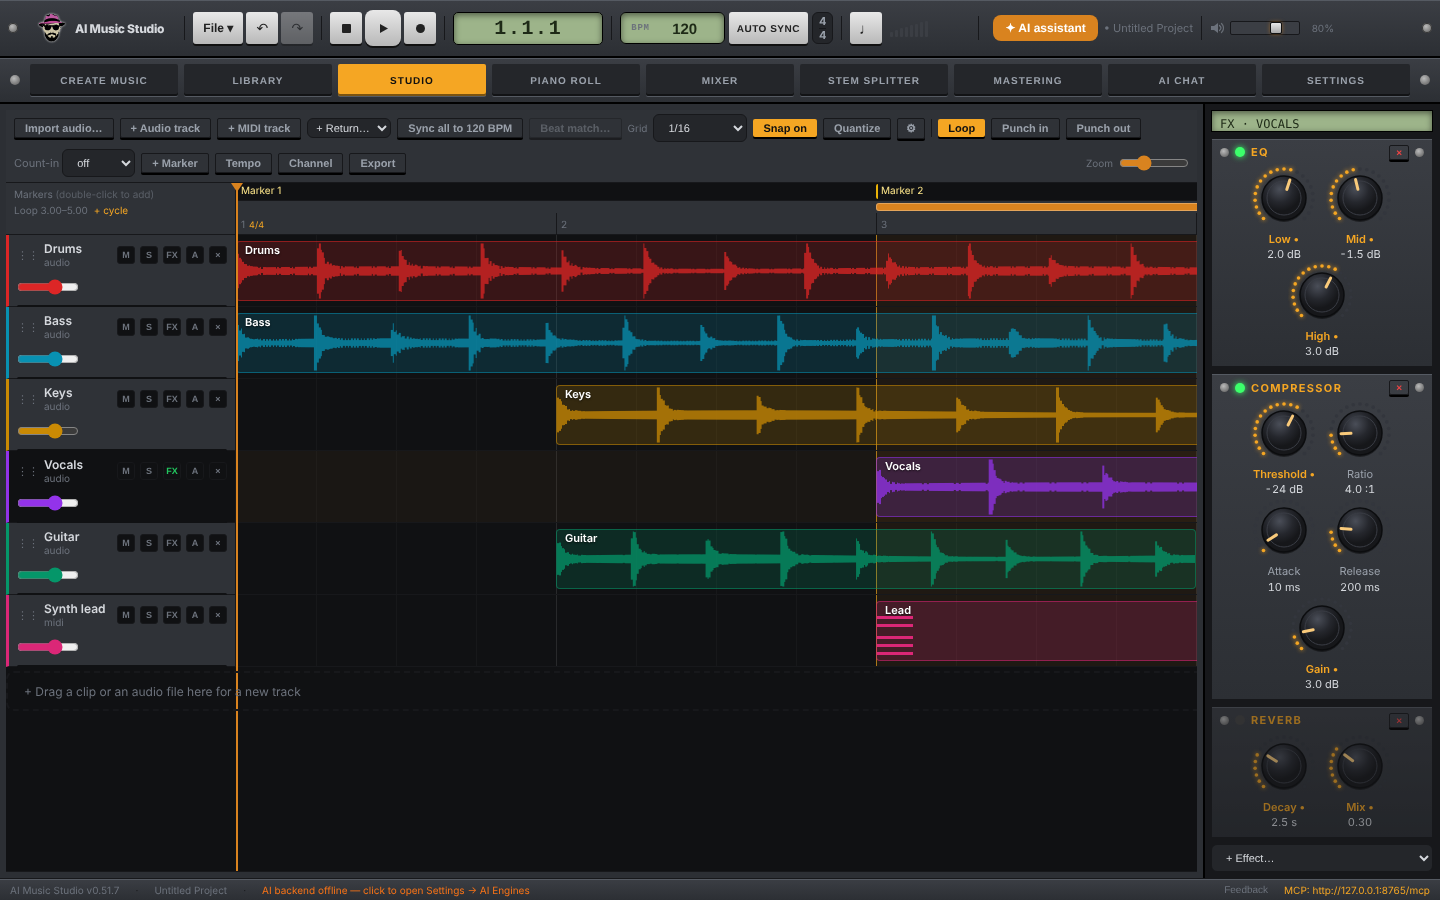
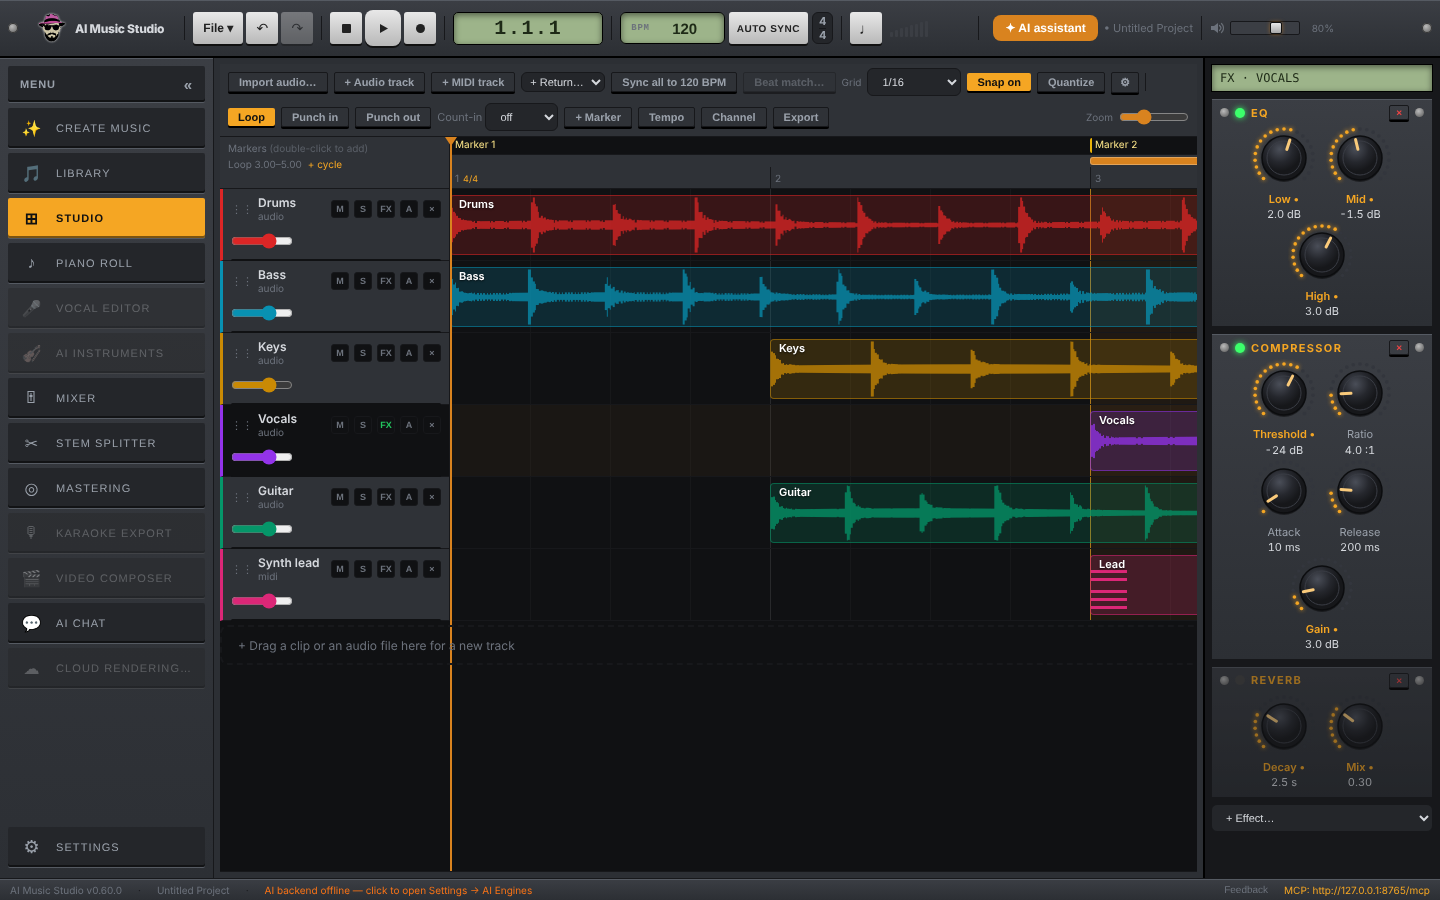
0.60.1: Hardware rack menu back at the side; effect rack only in Studio, Piano Roll and Mixer
Claude-Session: https://claude.ai/code/session_013zCgTr6dt9d3xsck6W1V2X

diff --git a/apps/desktop/src/renderer/src/styles/globals.css b/apps/desktop/src/renderer/src/styles/globals.css
@@ -472,20 +472,10 @@ input:focus, select:focus, textarea:focus { border-color: var(--accent); }
 [data-theme="rack"] .btn-primary { color: #111; background: #f5a623; }
 [data-theme="rack"] .panel { border-radius: 2px; background: linear-gradient(#34373d, #2a2d32); }
 
-/* Hardware rack: the menu as a row of rack keys under the top bar, the effect rack at the right, a big LCD */
-[data-theme="rack"] .app-body { display: grid; grid-template-columns: minmax(0, 1fr) auto auto; grid-template-rows: 46px minmax(0, 1fr); }
-[data-theme="rack"] .app-body > .app-nav-bar { grid-column: 1 / -1; grid-row: 1; padding: 6px 30px !important; gap: 6px !important; border-right: none !important; border-bottom: 2px solid #000; position: relative; }
-[data-theme="rack"] .app-body > .app-nav-bar::before, [data-theme="rack"] .app-body > .app-nav-bar::after {
-  content: ''; position: absolute; top: 50%; margin-top: -5px; width: 10px; height: 10px; border-radius: 50%;
-  background: radial-gradient(circle at 40% 35%, #bbb, #555);
-}
-[data-theme="rack"] .app-body > .app-nav-bar::before { left: 10px; }
-[data-theme="rack"] .app-body > .app-nav-bar::after { right: 10px; }
-[data-theme="rack"] .app-nav-bar button { background: #24262a !important; color: #9aa1ab !important; box-shadow: inset 0 -2px 0 rgba(0,0,0,0.5), 0 1px 0 #555a62 !important; font-weight: 700 !important; font-size: 10px !important; }
-[data-theme="rack"] .app-nav-bar button[style*="var(--accent)"] { background: #f5a623 !important; color: #111 !important; }
-[data-theme="rack"] .app-body > .app-main { grid-column: 1; grid-row: 2; min-height: 0; border: 6px solid #2c2f34; box-shadow: inset 0 0 0 1px #000; }
-[data-theme="rack"] .app-body > .rack-panel { grid-column: 2; grid-row: 2; min-height: 0; }
-[data-theme="rack"] .app-body > .ai-chat-sidebar { grid-column: 3; grid-row: 2; min-height: 0; }
+/* Hardware rack: the menu at the side as rack keys, the effect rack at the right, a big LCD */
+[data-theme="rack"] .app-nav button { background: #24262a !important; color: #9aa1ab !important; box-shadow: inset 0 -2px 0 rgba(0,0,0,0.5), 0 1px 0 #555a62 !important; margin-bottom: 3px; }
+[data-theme="rack"] .app-nav button[style*="var(--accent)"] { background: #f5a623 !important; color: #111 !important; }
+[data-theme="rack"] .app-main { border: 6px solid #2c2f34; box-shadow: inset 0 0 0 1px #000; }
 [data-theme="rack"] .app-topbar { height: 58px; }
 [data-theme="rack"] .tb-position { min-width: 150px; font-size: 20px !important; text-align: center; padding: 4px 14px !important; letter-spacing: 0.08em; }
 [data-theme="rack"] .tb-bpm { padding: 4px 10px !important; }

diff --git a/apps/desktop/src/renderer/src/components/layout/Sidebar.tsx b/apps/desktop/src/renderer/src/components/layout/Sidebar.tsx
@@ -36,8 +36,8 @@ const EXPANDED = 214
 export function Sidebar(): React.ReactElement {
   const { t } = useTranslation()
   const { activeView, setActiveView, closeSettings, sidebarOpen: open, toggleSidebar, theme } = useUIStore()
-  // the Swiss layout has the menu as a bar along the bottom, the Hardware rack as a row of rack keys at the top
-  const bar = theme === 'swiss' || theme === 'rack'
+  // the Swiss layout has the menu as a bar along the bottom (the Hardware rack keeps it at the side: more room)
+  const bar = theme === 'swiss'
   const sidebarOpen = open || bar
 
   const button = (view: View, icon: string, text: string, size = 16) => {

diff --git a/apps/desktop/src/renderer/src/App.tsx b/apps/desktop/src/renderer/src/App.tsx
@@ -228,7 +228,7 @@ export default function App(): React.ReactElement {
         </main>
 
         {/* Hardware rack look: the effects of the selected track as rack modules */}
-        {theme === 'rack' && <RackPanel />}
+        {theme === 'rack' && ['timeline', 'piano-roll', 'mixer'].includes(activeView) && <RackPanel />}
 
         {/* AI Chat sidebar */}
         <div className={`ai-chat-sidebar${chatOpen ? '' : ' collapsed'}`}>

diff --git a/docs/MANUAL.md b/docs/MANUAL.md
@@ -74,7 +74,7 @@ Nach der Installation die App neu starten, damit sie die neuen Programme im PATH
 - **Einstellungen → Plugins** (ab 0.50): VST3- und VST2-Plugins mit 64 und 32 Bit (ein 32-Bit-Plugin läuft in einem eigenen 32-Bit-Plugin-Host; welches ein Plugin braucht, erkennt die App selbst). Die üblichen Ordner werden immer durchsucht, auch die unter *Programme (x86)*; eigene Ordner kommen mit *Add folder…* dazu. **Search for plugins** sucht (beim ersten Start einmal von selbst). In der Liste bestimmt das Häkchen, welche Plugins in der App erscheinen. Jedes Plugin wird einzeln geprüft; stürzt eines dabei ab, wird es übersprungen und unten aufgeführt.
 - **Einstellungen → Audio** (ab 0.51): wie in anderen DAWs. *Audio-Gerät:* Treiber **Windows** oder **ASIO / andere Treiber** (über den Plugin-Host: ASIO, Windows Audio oder DirectSound, Gerät, Ausgänge, Abtastrate, Puffer und **ASIO-Bedienfeld**; für den Mainboard-Sound ASIO4ALL oder FlexASIO installieren; Vorschauen in Bibliothek und Erstellen bleiben auf dem Windows-Gerät), Eingangsgerät für Aufnahmen, Ausgangsgerät (gilt überall in der App, *Neu suchen* nach dem Einstecken). *Abtastrate* der Wiedergabe und des Exports. *Latenz:* Puffergröße mit echter Ein-, Ausgangs- und Gesamt-Latenz, Treiberfehler-Kompensation (verschiebt Aufnahmen früher). *Test:* Testton an/aus mit Lautstärke und Frequenz, simulierte CPU-Belastung.
 - **Einstellungen → Allgemein**: Sprache. Ab 0.40 ist die ganze App übersetzt: Deutsch, Englisch, Französisch, Spanisch, Italienisch, Portugiesisch und Chinesisch. Bei Japanisch und Koreanisch ist vorerst nur das Menü übersetzt, der Rest bleibt Englisch.
-- **Einstellungen → Erscheinungsbild**: das Aussehen der App: **Dunkel**, **Hell**, **Analog-Pult** (Holz, Bernstein, leuchtende Anzeige), **Swiss** (Schwarz-Weiß, große Schrift, Menü als Leiste unten) oder **Hardware-Rack** (graue Gerätefronten, breites grünes LCD, Menü als Rack-Tasten, rechts ein Effekt-Rack mit Drehknöpfen für die gewählte Spur).
+- **Einstellungen → Erscheinungsbild**: das Aussehen der App: **Dunkel**, **Hell**, **Analog-Pult** (Holz, Bernstein, leuchtende Anzeige), **Swiss** (Schwarz-Weiß, große Schrift, Menü als Leiste unten) oder **Hardware-Rack** (graue Gerätefronten, breites grünes LCD, Menü an der Seite als Rack-Tasten, im Studio rechts ein Effekt-Rack mit Drehknöpfen für die gewählte Spur).
 
 ## 3. Funktionen
 

diff --git a/CHANGELOG.md b/CHANGELOG.md
@@ -3,12 +3,16 @@
 What changed in each version of AI Music Studio. The release workflow puts the section of the released version
 on its GitHub release page, so every version needs a `## <version>` section here before it is released.
 
+## 0.60.1
+
+- **Hardware rack look:** the menu is back at the side (as rack keys), which leaves more room for the pages; the effect rack at the right only shows in the Studio, Piano Roll and Mixer.
+
 ## 0.60.0
 
 - **VST instruments on MIDI tracks:** a MIDI track can now be played by an instrument plugin (VST3 / VST2, 64- and 32-bit) instead of the built-in synth: *Channel → Instrument*. The plugin plays the notes of the clips, the notes you play in the Piano Roll and on a MIDI keyboard (held keys sound until you let go), MIDI recordings, and the export. **Open** shows the plugin's window; its settings are saved with the project.
 - **Free instruments:** *Settings → Plugins → Free instruments* installs **Dexed** (FM synth like the DX7) and **Surge XT** (big all-round synth), both open source (GPL-3), with one click from their official releases.
 - **ASIO:** *Settings → Audio → Driver type* now has **ASIO / other drivers**: the sound of the Studio and Mastering plays through the plugin host on an ASIO device (or Windows Audio, DirectSound), with the device's sample rates and buffer sizes, the outputs to use and the **ASIO control panel**. For the sound of the mainboard, install ASIO4ALL or FlexASIO.
-- **Hardware rack look, rebuilt:** a wide green LCD for position and tempo, the menu as a row of rack keys under it, the selected track's effects as rack modules with knobs and lamps at the right, and the Studio framed like a device screen.
+- **Hardware rack look, rebuilt:** a wide green LCD for position and tempo, the menu as rack keys, the selected track's effects as rack modules with knobs and lamps at the right, and the Studio framed like a device screen.
 - With plugins, the first notes and clips at the start of the song are no longer late (live and in the export).
 - **Mastering:** the three meters next to the master gain fader no longer shift sideways while a song plays.
 

diff --git a/README.md b/README.md
@@ -104,7 +104,7 @@ A full arrangement studio in the app, with the shortcuts of **Ableton Live 12** 
 **Swiss** – white and black, heavy type, no rounded corners, orange as the only colour, the menu as a bar along the bottom.
 
 <img src="docs/screenshots/layout-rack.png" alt="Look: Hardware rack" width="100%">
-**Hardware rack** – grey device fronts with screws, a wide green LCD for position and tempo, the menu as a row of rack keys, the selected track's effects as rack modules with knobs at the right.
+**Hardware rack** – grey device fronts with screws, a wide green LCD for position and tempo, the menu at the side as rack keys, the selected track's effects as rack modules with knobs at the right.
 
 | | |
 |---|---|

diff --git a/docs/TESTPLAN.md b/docs/TESTPLAN.md
@@ -287,3 +287,4 @@ behoben, dann der nächste Bereich.
 | 11.14 | Einstellungen → Erscheinungsbild → **Hardware-Rack** | Großes grünes LCD oben, Menü als Rack-Tasten, rechts Effekt-Rack der gewählten Spur | | | |
 | 11.15 | Im Effekt-Rack einen Knopf drehen, ein Modul mit der Lampe aus/an, **+ Effekt…** | Klang ändert sich; Modul aus/an; neues Modul erscheint | | | |
 | 11.16 | Mastering: Song abspielen, auf die drei Anzeigen neben dem Master-Fader achten | Sie bleiben ruhig an ihrer Stelle | | | |
+| 11.14b | Erscheinungsbild **Hardware-Rack**: Menü und KI-Chat ansehen | Menü links an der Seite (Rack-Tasten); das Effekt-Rack rechts nur im Studio, Piano Roll und Mixer | | | |
